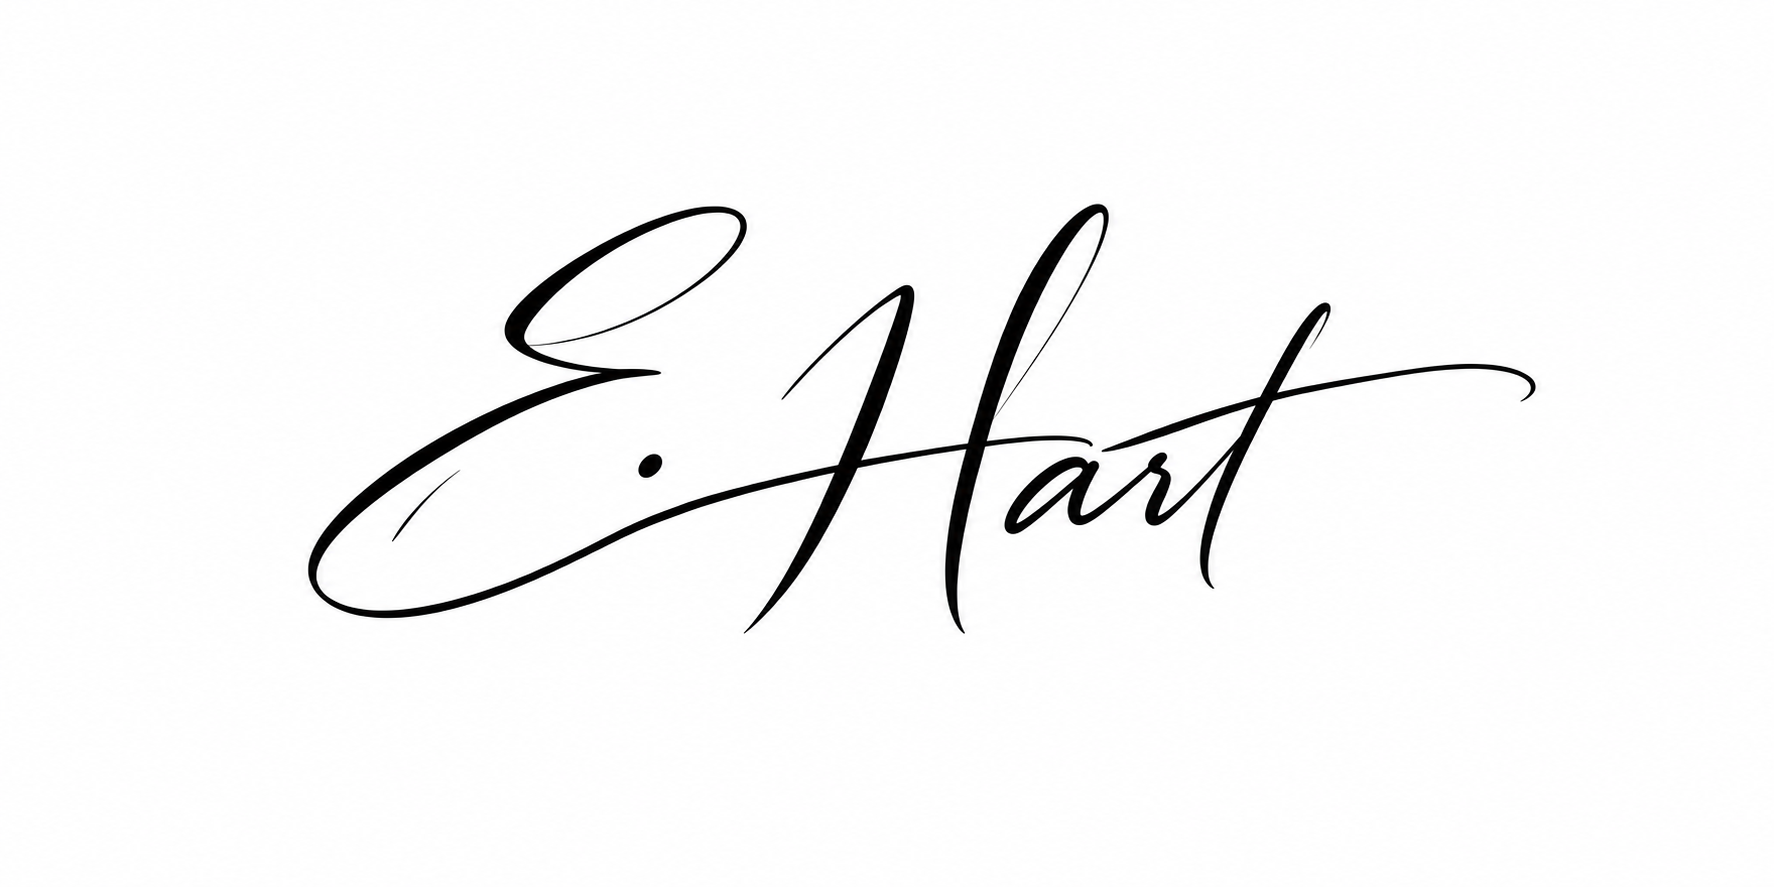
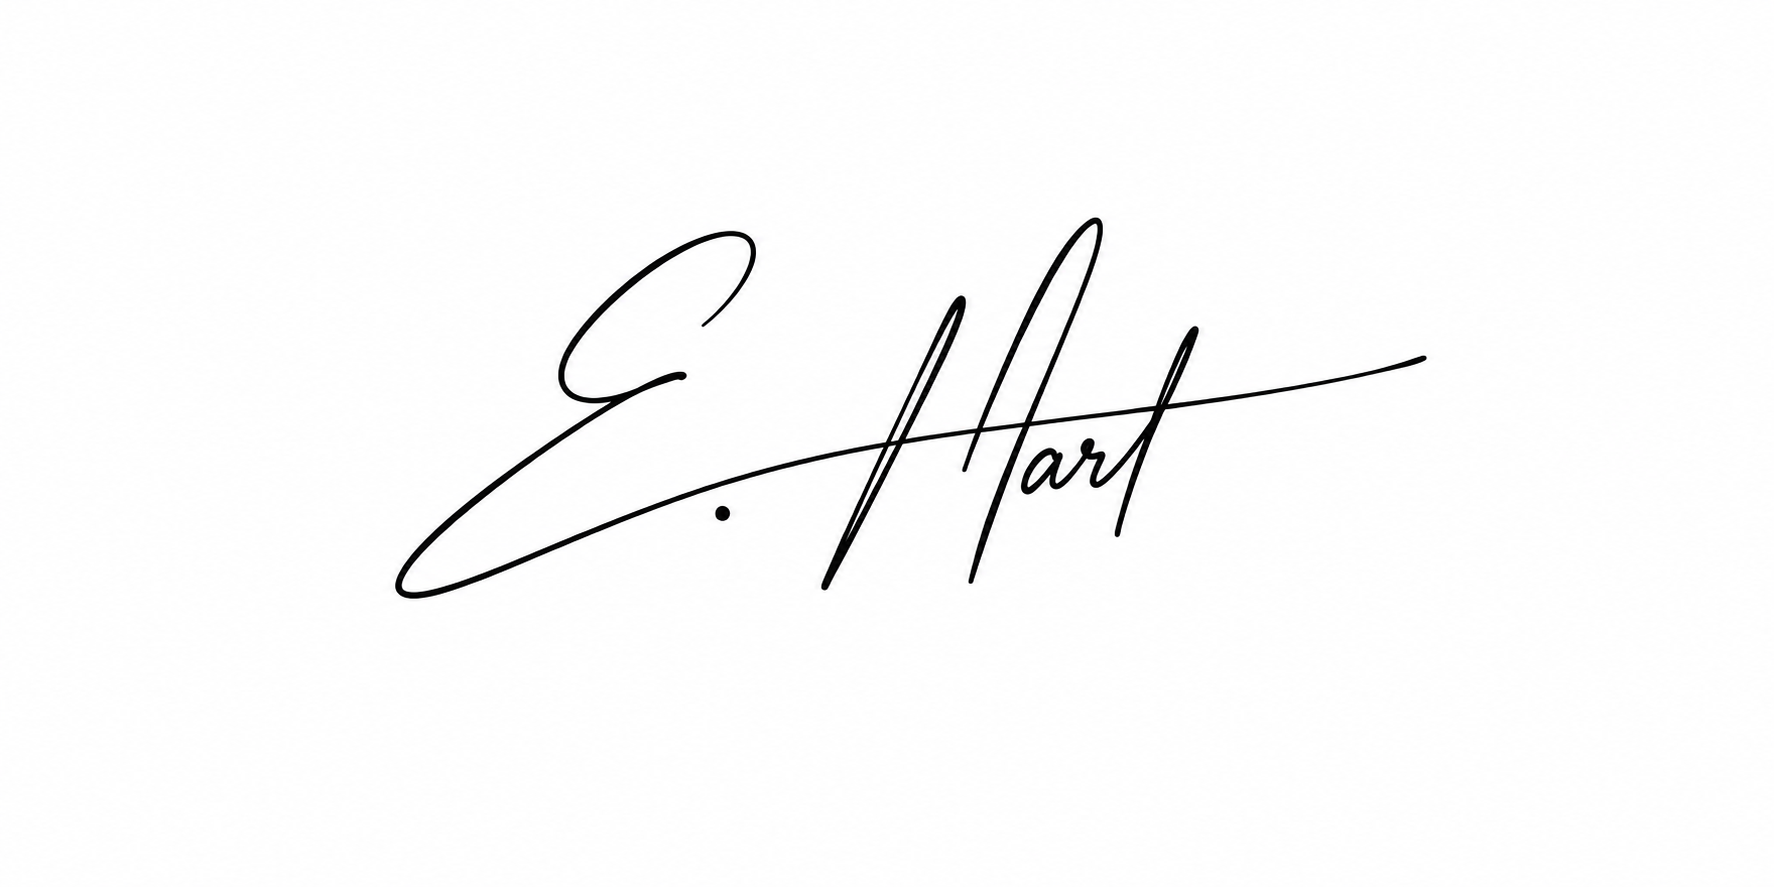
Match Evan Hart signature to fine-line reference style

diff --git a/tools-website/src/components/Identity.jsx b/tools-website/src/components/Identity.jsx
@@ -9,7 +9,7 @@ const directions = [
 const examples = {
   name: {file: 'magic-name.png', alt: 'Evan — Diagonal Weave name logo example'},
   initials: {file: 'magic-initials.png', alt: 'E and H — Gothic Weave initials example'},
-  signature: {file: 'magic-signature.png', alt: 'E. Hart — Couture Sweep signature example'},
+  signature: {file: 'magic-signature.png', alt: 'E. Hart — fine-line looping signature signature example'},
 };
 function savedNames() { try { return JSON.parse(readStored('l3v-logo-names', '{}')) || {}; } catch { return {}; } }
 const initial = text => new Intl.Segmenter(undefined, {granularity: 'grapheme'}).segment(text)[Symbol.iterator]().next().value?.segment || '';

diff --git a/tools-website/ARTWORK-EXAMPLES.md b/tools-website/ARTWORK-EXAMPLES.md
@@ -6,6 +6,6 @@ All three examples represent Evan Hart: Evan, E/H, and E. Hart. Defaults also us
 |---|---|---|
 | magic-name.png | compact-logos-001 / 23-hard-angular | c283d7357ceaa59f11980fa986e237097dd7220c7806c927925e0288d0a44365 |
 | magic-initials.png | Original initials batch / INI900-S22-N23 | 2c813e4a1d15c9526ade531ff3c07abfdf39fb9c85106affd2da38d2ef44eed0 |
-| magic-signature.png | Built-in image generation / Evan Hart Couture Sweep | 6a2b953c91327435e3a87b45febda420bdcf87d32cdf9415270a3bf0a4f4b28d |
+| magic-signature.png | Built-in image generation / Evan Hart fine-line reference variant | a806c9c4323c65db34d8c81c8cb03421e3874fd22ce79a7e660712d755c9bbda |
 
-Signature visually checked for E, period, H, a, r, t. E exit forms the H crossbar and terminal t has a tailored rising crossbar. New draft, not user-approved. Originals are copied unchanged.
+Signature visually checked for E, period, H, a, r, t. E exit forms the H crossbar and the long crossing stroke also supplies the terminal t crossbar. New draft, not user-approved. Originals are copied unchanged.
